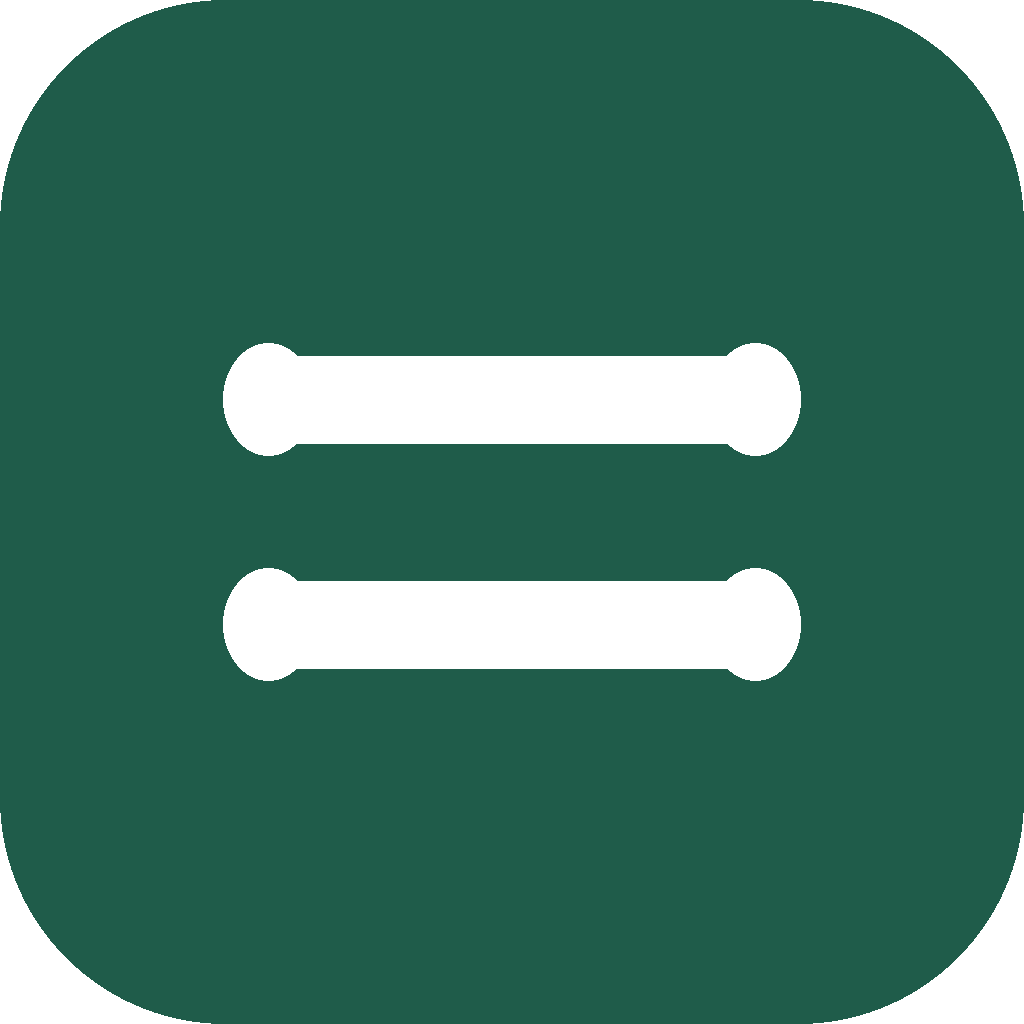
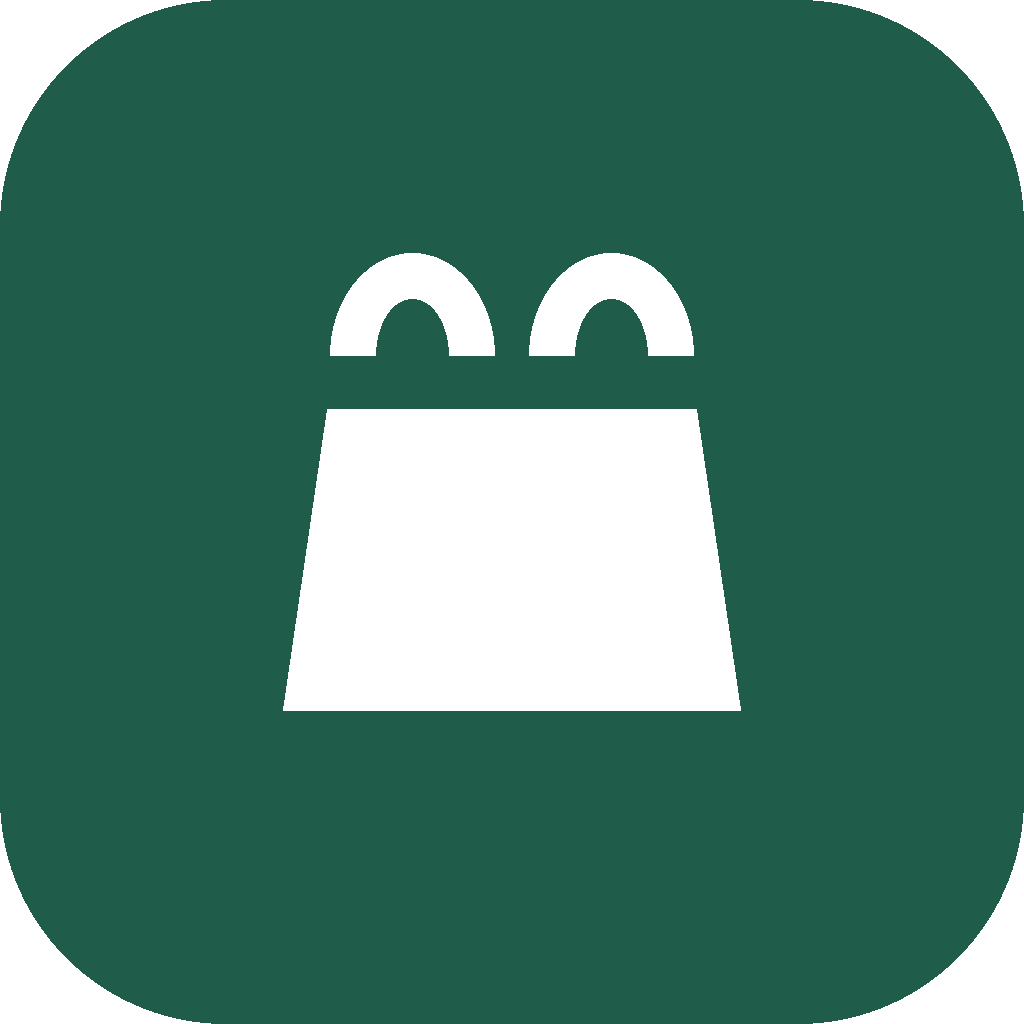
Icona verde con busta della spesa; import dei dati iniziali automatico
L'importazione delle 16 voci di partenza non richiede più un tocco:
avviene da sola al primo apertura se l'archivio è vuoto. Icona
aggiornata nello stesso stile delle altre app.

Claude-Session: https://claude.ai/code/session_01QA2bWGazXEyX1wCaBXxAP2

Changed region(s): [[0.2188, 0.25, 0.7812, 0.7188]]

diff --git a/index.html b/index.html
@@ -113,9 +113,6 @@ button { font-family: var(--corpo); }
 .conferma p { margin: 0; font-size: 0.95rem; }
 .conferma .azioni { display: flex; flex-wrap: wrap; gap: 8px; }
 
-.importo-iniziale { display: flex; flex-direction: column; gap: 8px; padding: 14px; border-radius: 14px; background: var(--superficie); border: 1px dashed var(--linea); }
-.importo-iniziale p { margin: 0; font-size: 0.92rem; color: var(--testo-2); }
-
 /* Modulo */
 .modulo { background: var(--superficie); border: 1px solid var(--linea); border-radius: 16px; padding: 14px; display: grid; gap: 10px; }
 .tipo { display: grid; grid-template-columns: 1fr 1fr; gap: 6px; background: var(--sfondo); padding: 4px; border-radius: 12px; border: 0; margin: 0; min-width: 0; }
@@ -175,11 +172,6 @@ button { font-family: var(--corpo); }
   </header>
 
   <p class="avviso" id="avviso" hidden></p>
-
-  <div class="importo-iniziale" id="importoIniziale" hidden>
-    <p>L'archivio è vuoto su questo database. Vuoi importare le voci di partenza (quelle già segnate prima del trasloco)?</p>
-    <button type="button" class="bottone primario" id="importaBtn">Importa le voci di partenza</button>
-  </div>
 
   <section class="saldo pari" id="saldo" aria-live="polite">
     <p class="saldo-etichetta" id="saldoEtichetta">Carico i conti…</p>
@@ -616,11 +608,9 @@ function creaPdf(JsPDF, dati, nomeFile) {
     $("confermaSi").disabled = false;
   });
 
-  /* Importazione delle voci di partenza, una tantum */
-  $("importaBtn").addEventListener("click", async function () {
+  /* Importazione delle voci di partenza: automatica, al primo avvio, se l'archivio è ancora vuoto */
+  async function importaVociIniziali() {
     if (!col || !metaRef) return;
-    $("importaBtn").disabled = true;
-    $("importaBtn").textContent = "Importo…";
     try {
       var batch = firebase.firestore().batch();
       VOCI_INIZIALI.forEach(function (v) {
@@ -631,13 +621,10 @@ function creaPdf(JsPDF, dati, nomeFile) {
       });
       batch.set(metaRef, { seminato: true, quando: Date.now() });
       await batch.commit();
-      $("importoIniziale").hidden = true;
     } catch (err) {
-      $("importaBtn").disabled = false;
-      $("importaBtn").textContent = "Importa le voci di partenza";
-      messaggio("Non sono riuscito a importare le voci. Riprova tra poco.", true);
+      avviso("Non sono riuscito a importare le voci di partenza. Ricarica la pagina per riprovare.");
     }
-  });
+  }
 
   /* Avvio */
   render();
@@ -662,11 +649,16 @@ function creaPdf(JsPDF, dati, nomeFile) {
     }
     metaRef.get().then(function (snap) {
       var seminato = snap.exists && snap.data().seminato;
+      var primaVolta = true;
       col.orderBy("ordine", "desc").onSnapshot(function (qs) {
         voci = qs.docs.map(function (d) { return Object.assign({ id: d.id }, d.data()); });
         caricato = true;
         avviso("");
-        $("importoIniziale").hidden = !(!seminato && voci.length === 0);
+        if (primaVolta && !seminato && voci.length === 0) {
+          seminato = true;
+          importaVociIniziali();
+        }
+        primaVolta = false;
         render();
       }, function () {
         caricato = true;

diff --git a/README.md b/README.md
@@ -24,7 +24,7 @@ Da quel momento l'app salva davvero, su un database solo tuo.
 
 ## Le voci di partenza
 
-Le 16 voci che c'erano già nella versione precedente (quella dentro Claude) sono incluse nel codice. Appena apri la pagina con Firebase configurato e l'archivio è ancora vuoto, compare un riquadro "Importa le voci di partenza": un tocco e sono dentro. Dopo l'importazione il riquadro sparisce da solo e non si ripresenta.
+Le 16 voci che c'erano già nella versione precedente (quella dentro Claude) sono incluse nel codice. La primissima volta che qualcuno apre la pagina con Firebase configurato e l'archivio è ancora vuoto, l'app le importa da sola, senza bisogno di toccare nulla. Da quel momento l'archivio non è più vuoto, quindi non si ripete.
 
 ## Struttura
 
